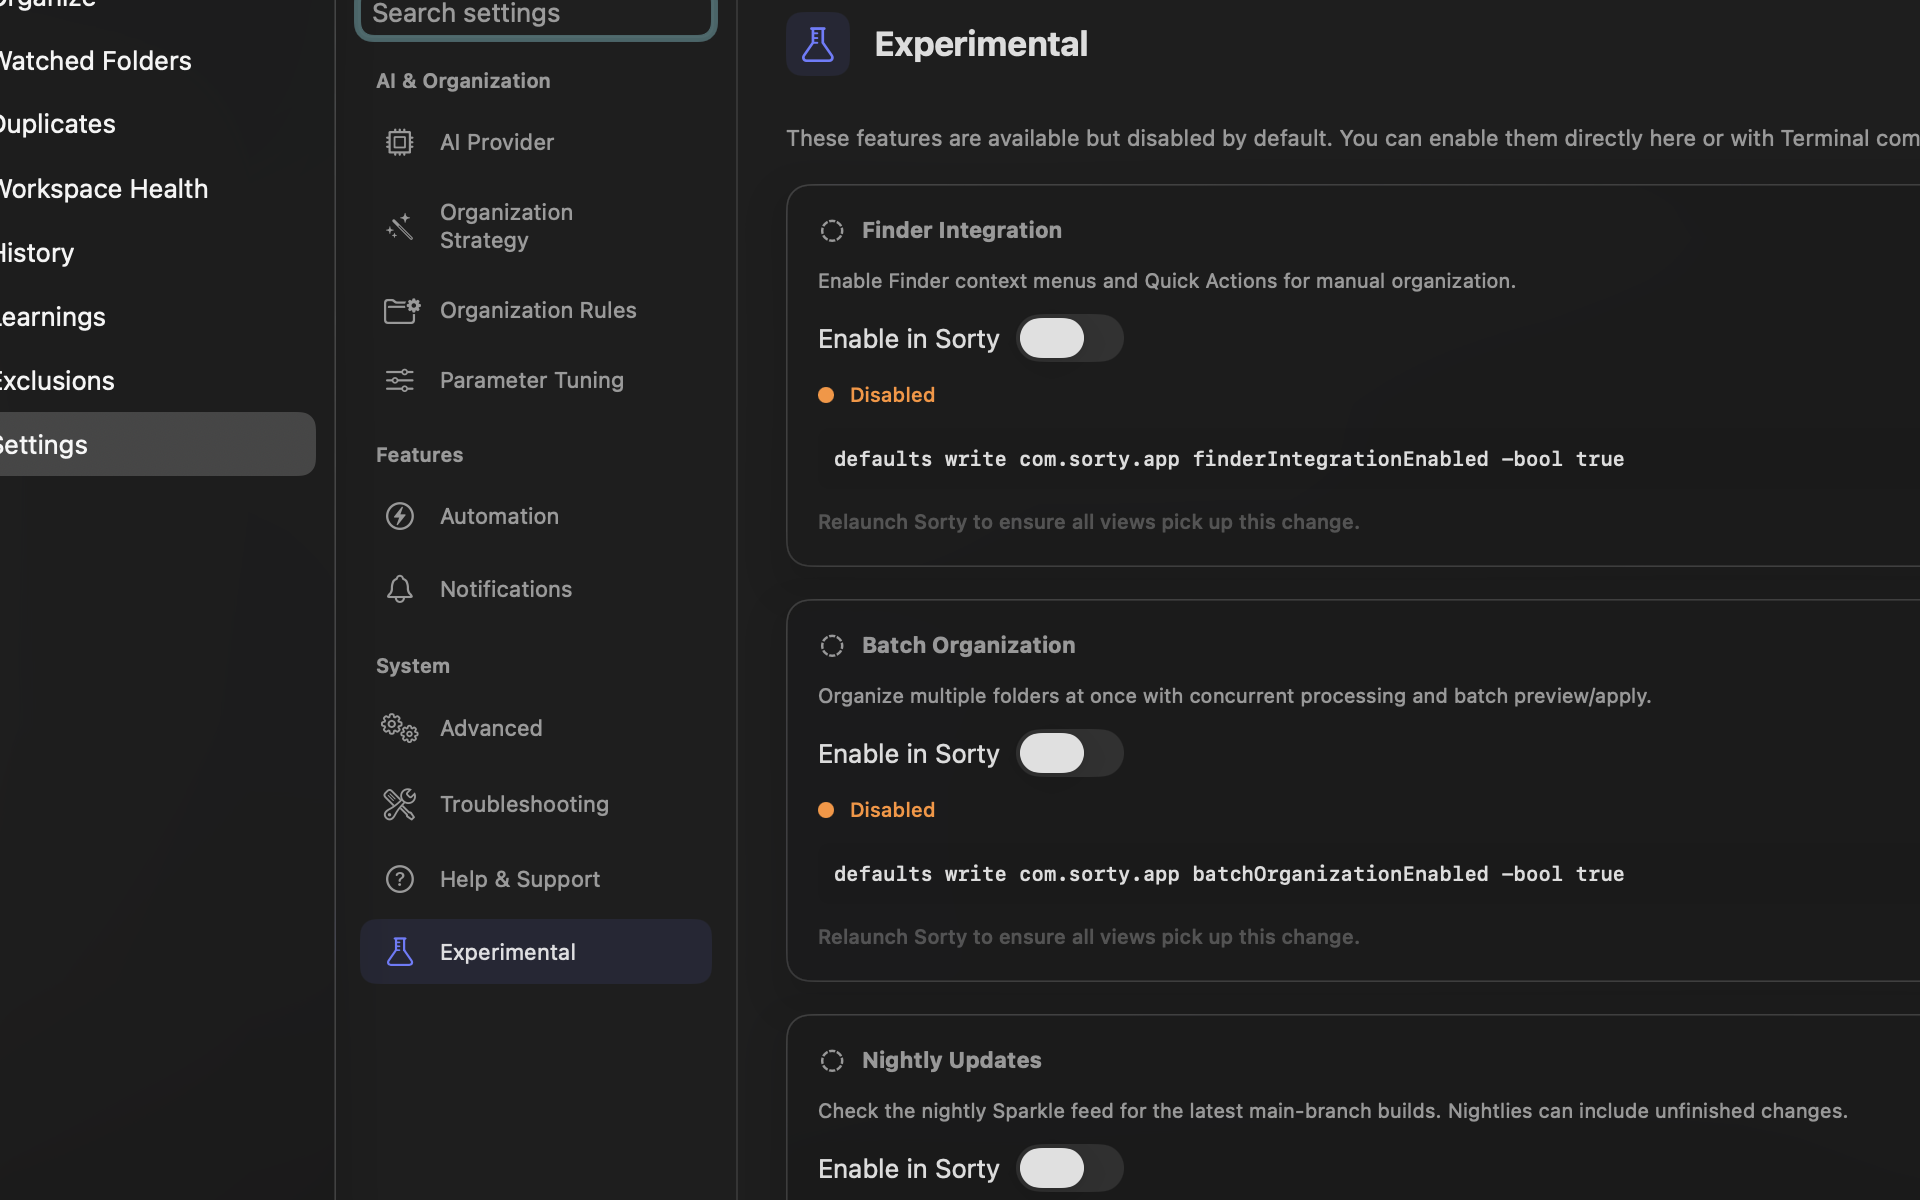
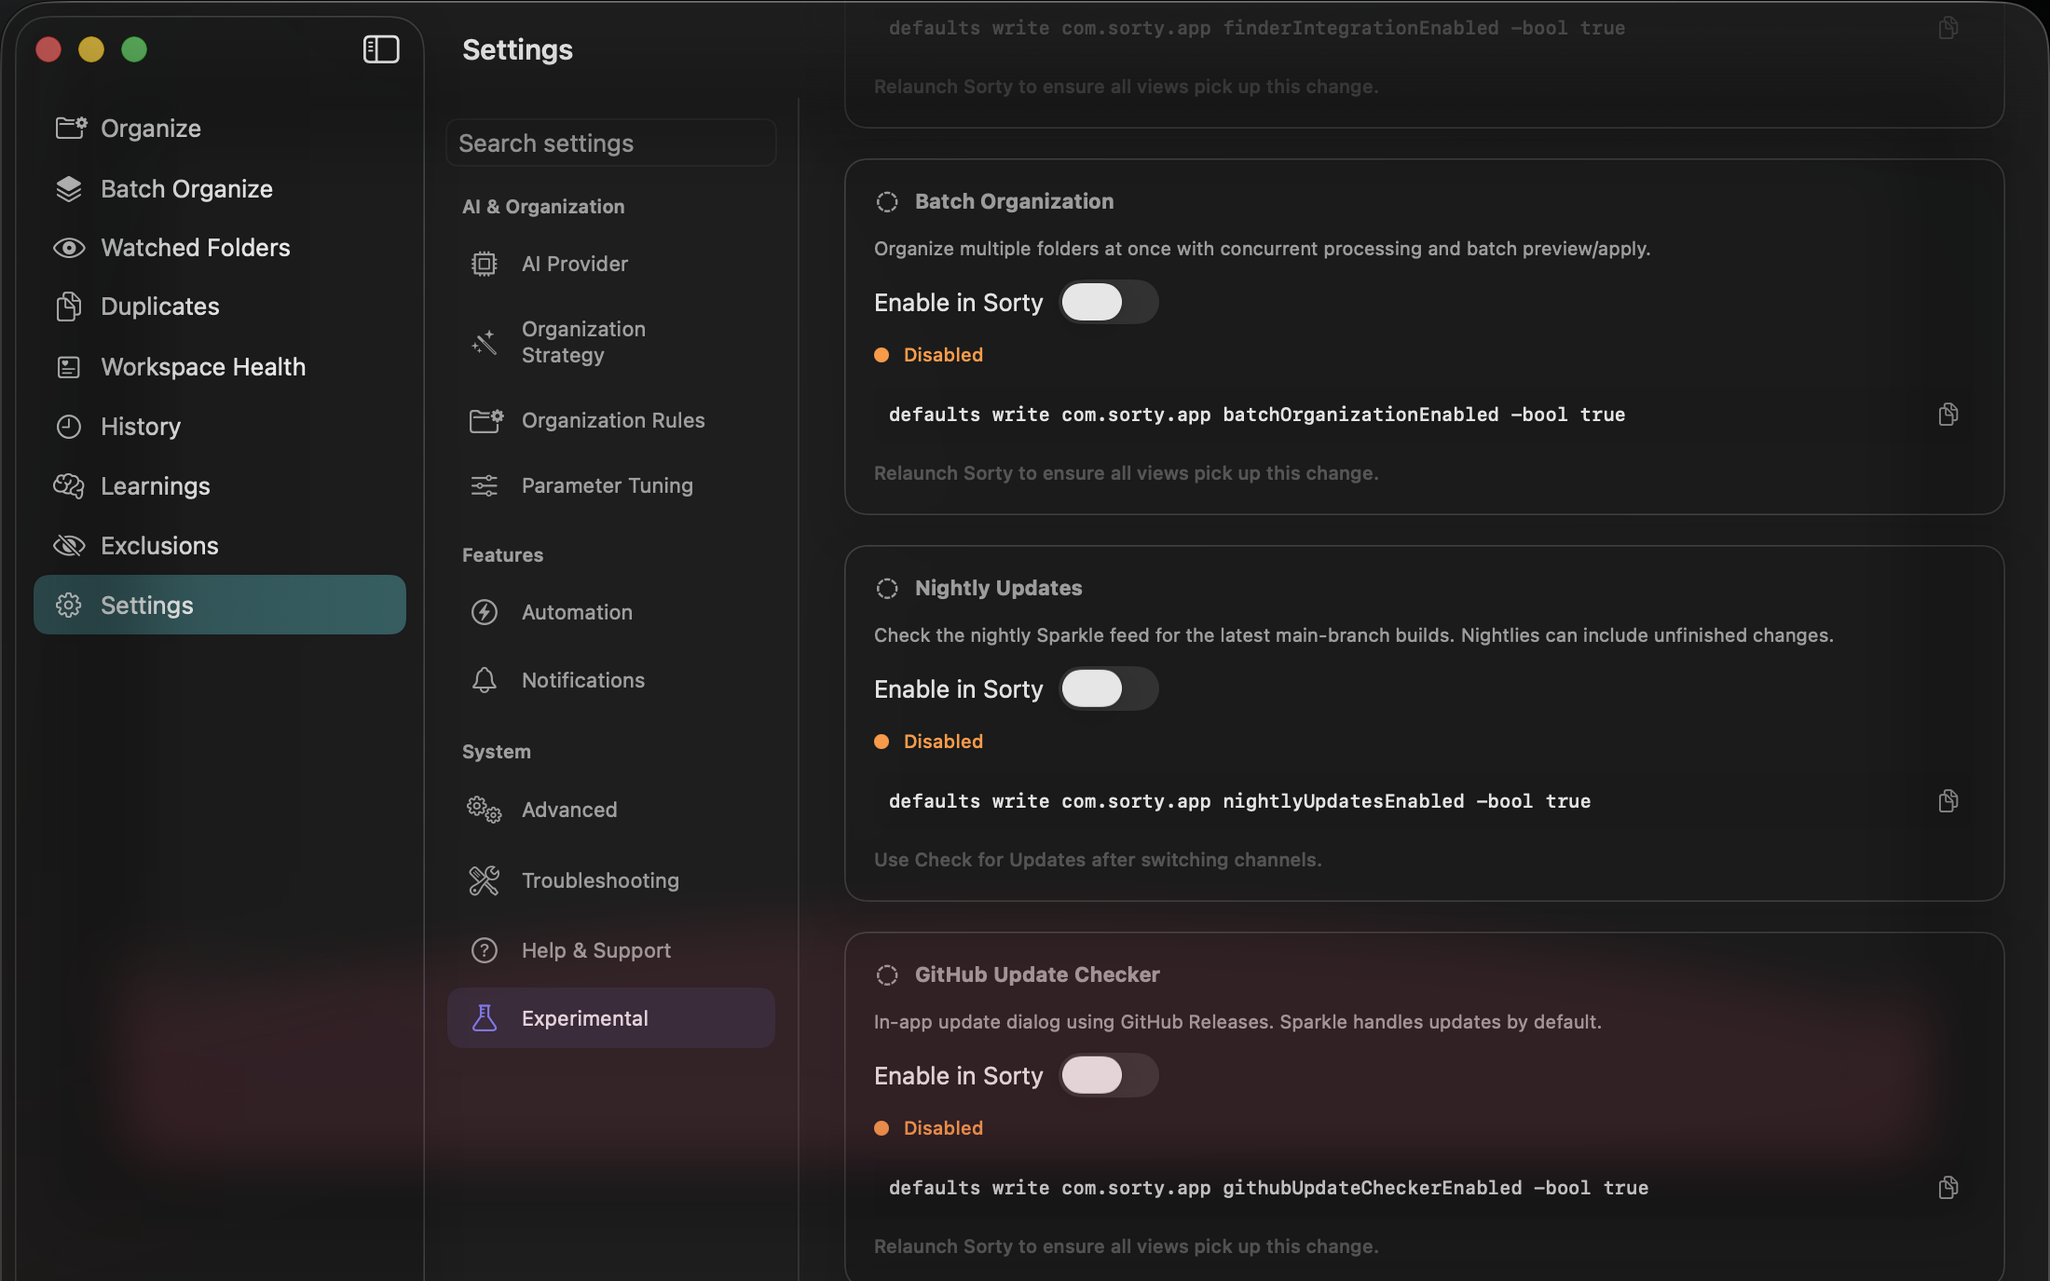
Polish whats new screenshots

diff --git a/Sources/SortyLib/Views/WhatsNew/WhatsNewTourView.swift b/Sources/SortyLib/Views/WhatsNew/WhatsNewTourView.swift
@@ -19,7 +19,7 @@ public struct WhatsNewTourView: View {
 
             TourSlideshowView(
                 pages: pages,
-                width: 860,
+                width: 760,
                 continueButtonTitle: "Continue",
                 finishButtonTitle: "Start using Sorty",
                 onFinish: onFinish,
@@ -28,8 +28,8 @@ public struct WhatsNewTourView: View {
 
             nightlyUpdatesCard
         }
-        .padding(.bottom, 18)
-        .frame(width: 920)
+        .padding(.bottom, 20)
+        .frame(width: 820)
         .background(Color(nsColor: .windowBackgroundColor))
     }
 
@@ -109,20 +109,20 @@ public struct WhatsNewTourView: View {
             TourPage(
                 imageName: "whats-new-design-system.png",
                 imageBundle: .module,
-                title: "A cleaner Sorty",
-                description: "This build introduces the new design system: calmer surfaces, clearer hierarchy, and a friendlier organizer flow."
+                title: "A cleaner organizer",
+                description: "The main Sorty flow now has a calmer sidebar, clearer folder drop zone, and a more polished visual system."
             ),
             TourPage(
                 imageName: "whats-new-preview.png",
                 imageBundle: .module,
-                title: "Choose exactly how Sorty works",
-                description: "Pick Organize Only, Organize & Rename, or Rename Only before Sorty touches a folder."
+                title: "Choose how Sorty handles files",
+                description: "Pick Organize Only, Organize & Rename, or Rename Only before choosing a folder."
             ),
             TourPage(
                 imageName: "whats-new-nightly.png",
                 imageBundle: .module,
-                title: "Nightlies are now available",
-                description: "Everyone gets this first nightly-style build through the normal updater. Future nightly builds are optional and may be less polished."
+                title: "Nightly builds are available",
+                description: "This build arrives through the normal updater. Turn on Nightly Updates only if you want future, less-polished builds."
             ),
         ]
     }
